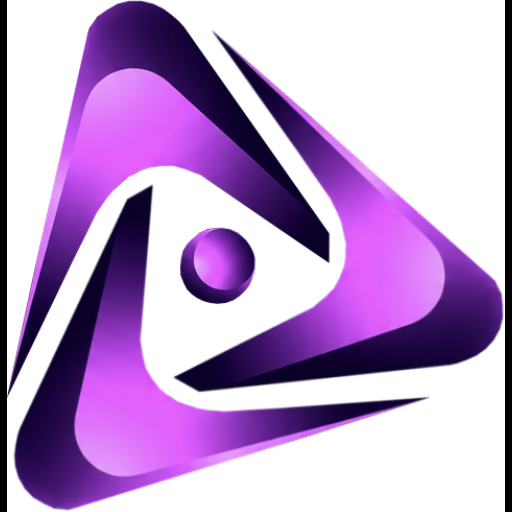
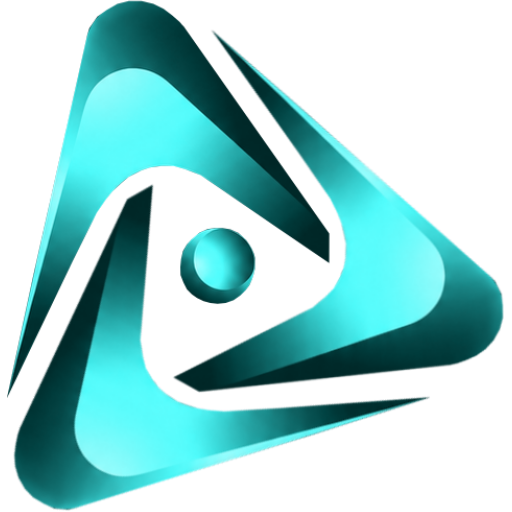
feat: adopt cyan Relay brand theme

diff --git a/src/app/globals.css b/src/app/globals.css
@@ -3,8 +3,8 @@
 @import "@copilotkit/react-ui/styles.css";
 
 :root {
-  --background: #f4f6f9;
-  --foreground: #182033;
+  --background: #f4f7fa;
+  --foreground: #142832;
 }
 
 @theme inline {
@@ -22,7 +22,7 @@ body {
 }
 
 ::selection {
-  background: rgba(81, 70, 155, 0.2);
+  background: rgba(0, 169, 206, 0.22);
 }
 
 button,
@@ -50,64 +50,64 @@ select:focus-visible {
 }
 
 .assistant-shell {
-  --app-bg: #f4f6f9;
-  --sidebar: rgba(238, 241, 246, 0.92);
+  --app-bg: #f4f7fa;
+  --sidebar: rgba(237, 242, 246, 0.92);
   --surface: rgba(255, 255, 255, 0.96);
-  --surface-soft: rgba(238, 241, 246, 0.94);
+  --surface-soft: rgba(237, 242, 246, 0.94);
   --surface-glass: rgba(255, 255, 255, 0.86);
-  --text: #182033;
-  --muted: #677085;
-  --line: rgba(24, 32, 51, 0.1);
-  --line-strong: rgba(24, 32, 51, 0.19);
-  --track: rgba(24, 32, 51, 0.1);
-  --accent: #51469b;
-  --accent-strong: #403681;
-  --accent-soft: rgba(81, 70, 155, 0.1);
-  --signal: #6b5fc7;
-  --signal-soft: rgba(107, 95, 199, 0.1);
-  --violet: #8176d6;
-  --violet-soft: rgba(129, 118, 214, 0.1);
-  --brand-ink: #180048;
-  --brand-orbit: #7830a8;
-  --brand-violet: #a848d8;
-  --brand-electric: #d860ff;
+  --text: #142832;
+  --muted: #647985;
+  --line: rgba(15, 52, 68, 0.1);
+  --line-strong: rgba(15, 52, 68, 0.2);
+  --track: rgba(15, 52, 68, 0.1);
+  --accent: #007f9d;
+  --accent-strong: #00677f;
+  --accent-soft: rgba(0, 169, 206, 0.1);
+  --signal: #00a9ce;
+  --signal-soft: rgba(0, 169, 206, 0.1);
+  --violet: #26c6e6;
+  --violet-soft: rgba(38, 198, 230, 0.1);
+  --brand-ink: #00383a;
+  --brand-core: #008fa5;
+  --brand-cyan: #20c8e8;
+  --brand-electric: #6be7ff;
   --success: #12815d;
   --success-soft: rgba(18, 129, 93, 0.12);
   --warning: #a15c00;
   --warning-soft: rgba(228, 152, 43, 0.16);
   --danger: #c2415a;
   --danger-soft: rgba(194, 65, 90, 0.12);
-  --shadow: 0 18px 45px rgba(18, 25, 40, 0.08);
-  --shadow-strong: 0 30px 70px rgba(18, 25, 40, 0.16);
+  --shadow: 0 18px 45px rgba(8, 32, 46, 0.08);
+  --shadow-strong: 0 30px 70px rgba(8, 32, 46, 0.16);
   background:
-    radial-gradient(circle at 82% -8%, rgba(81, 70, 155, 0.07), transparent 30rem),
+    radial-gradient(circle at 82% -8%, rgba(0, 169, 206, 0.07), transparent 30rem),
     linear-gradient(180deg, rgba(255, 255, 255, 0.66), transparent 34rem),
     var(--app-bg);
   isolation: isolate;
 }
 
 .assistant-shell[data-theme="dark"] {
-  --app-bg: #0b0f17;
-  --sidebar: #0f141e;
-  --surface: rgba(18, 24, 35, 0.96);
-  --surface-soft: rgba(24, 31, 44, 0.94);
-  --surface-glass: rgba(15, 20, 30, 0.86);
-  --text: #f3f5f8;
-  --muted: #9da7b8;
-  --line: rgba(190, 198, 214, 0.12);
-  --line-strong: rgba(190, 198, 214, 0.22);
-  --track: rgba(190, 198, 214, 0.13);
-  --accent: #9a91e5;
-  --accent-strong: #b0a9ef;
-  --accent-soft: rgba(154, 145, 229, 0.14);
-  --signal: #7e73cf;
-  --signal-soft: rgba(126, 115, 207, 0.14);
-  --violet: #b0a9ef;
-  --violet-soft: rgba(176, 169, 239, 0.13);
-  --brand-ink: #180048;
-  --brand-orbit: #7830a8;
-  --brand-violet: #a848d8;
-  --brand-electric: #d860ff;
+  --app-bg: #071118;
+  --sidebar: #0a161e;
+  --surface: rgba(14, 28, 37, 0.96);
+  --surface-soft: rgba(19, 38, 48, 0.94);
+  --surface-glass: rgba(10, 22, 30, 0.86);
+  --text: #f0f9fc;
+  --muted: #9fb3bd;
+  --line: rgba(175, 219, 234, 0.12);
+  --line-strong: rgba(175, 219, 234, 0.22);
+  --track: rgba(175, 219, 234, 0.13);
+  --accent: #35d0ef;
+  --accent-strong: #5adef5;
+  --accent-soft: rgba(53, 208, 239, 0.14);
+  --signal: #16b9d8;
+  --signal-soft: rgba(22, 185, 216, 0.14);
+  --violet: #72dff2;
+  --violet-soft: rgba(114, 223, 242, 0.13);
+  --brand-ink: #00383a;
+  --brand-core: #008fa5;
+  --brand-cyan: #20c8e8;
+  --brand-electric: #6be7ff;
   --success: #5dd6a6;
   --success-soft: rgba(93, 214, 166, 0.14);
   --warning: #f3b35a;
@@ -117,32 +117,32 @@ select:focus-visible {
   --shadow: 0 18px 45px rgba(0, 0, 0, 0.24);
   --shadow-strong: 0 30px 70px rgba(0, 0, 0, 0.34);
   background:
-    radial-gradient(circle at 82% -8%, rgba(129, 118, 214, 0.07), transparent 30rem),
+    radial-gradient(circle at 82% -8%, rgba(0, 169, 206, 0.07), transparent 30rem),
     linear-gradient(180deg, rgba(255, 255, 255, 0.025), transparent 34rem),
     var(--app-bg);
 }
 
 /*
  * Relay workspace theme
- * A quiet, high-information flight deck using graphite, slate, and restrained
- * indigo. The Relay mark carries the brighter end of the brand spectrum.
+ * A quiet, high-information flight deck using graphite, cool slate, and
+ * restrained cyan. The Relay mark carries the luminous end of the spectrum.
  * These semantic tokens preserve accessible contrast across product surfaces.
  */
 .relay-product-shell[data-theme="light"] {
-  --background: #f4f6f9;
-  --foreground: #182033;
+  --background: #f4f7fa;
+  --foreground: #142832;
   --surface: #ffffff;
   --surface-foreground: var(--foreground);
-  --surface-secondary: #eef1f5;
+  --surface-secondary: #edf2f6;
   --surface-secondary-foreground: var(--foreground);
-  --surface-tertiary: #e4e8ef;
+  --surface-tertiary: #e2e9ed;
   --surface-tertiary-foreground: var(--foreground);
   --overlay: #ffffff;
   --overlay-foreground: var(--foreground);
-  --muted: #677085;
-  --default: #e9edf3;
+  --muted: #647985;
+  --default: #e7edf1;
   --default-foreground: var(--foreground);
-  --accent: #51469b;
+  --accent: #007f9d;
   --accent-foreground: #ffffff;
   --success: oklch(0.64 0.145 165);
   --success-foreground: oklch(0.18 0.02 165);
@@ -150,8 +150,8 @@ select:focus-visible {
   --warning-foreground: oklch(0.25 0.045 75);
   --danger: oklch(0.62 0.2 25);
   --danger-foreground: oklch(0.99 0.003 250);
-  --border: #cbd2dd;
-  --separator: #e0e5ec;
+  --border: #c7d3da;
+  --separator: #dce5ea;
   --field-background: #ffffff;
   --field-foreground: var(--foreground);
   --field-border: var(--separator);
@@ -166,9 +166,9 @@ select:focus-visible {
   --line-strong: var(--border);
   --track: var(--default);
   --accent-strong: var(--accent-hover);
-  --signal: #6b5fc7;
+  --signal: #00a9ce;
   --signal-soft: color-mix(in oklab, var(--signal) 14%, transparent);
-  --violet: #8176d6;
+  --violet: #26c6e6;
   --violet-soft: color-mix(in oklab, var(--violet) 14%, transparent);
   --shadow: var(--surface-shadow);
   --shadow-strong: var(--overlay-shadow);
@@ -179,30 +179,30 @@ select:focus-visible {
 }
 
 .relay-product-shell[data-theme="dark"] {
-  --background: #0b0f17;
-  --foreground: #f3f5f8;
-  --surface: #121823;
+  --background: #071118;
+  --foreground: #f0f9fc;
+  --surface: #0e1c25;
   --surface-foreground: var(--foreground);
-  --surface-secondary: #181f2c;
+  --surface-secondary: #132630;
   --surface-secondary-foreground: var(--foreground);
-  --surface-tertiary: #202938;
+  --surface-tertiary: #1b3340;
   --surface-tertiary-foreground: var(--foreground);
-  --overlay: #161d29;
+  --overlay: #11232d;
   --overlay-foreground: var(--foreground);
-  --muted: #9da7b8;
-  --default: #202938;
+  --muted: #9fb3bd;
+  --default: #1b3340;
   --default-foreground: var(--foreground);
-  --accent: #9a91e5;
-  --accent-foreground: #10141f;
+  --accent: #35d0ef;
+  --accent-foreground: #062f3c;
   --success: oklch(0.72 0.13 165);
   --success-foreground: oklch(0.15 0.025 165);
   --warning: oklch(0.8 0.13 78);
   --warning-foreground: oklch(0.2 0.04 78);
   --danger: oklch(0.7 0.18 25);
   --danger-foreground: oklch(0.98 0.006 250);
-  --border: #3b4658;
-  --separator: #283243;
-  --field-background: #161d29;
+  --border: #385362;
+  --separator: #243d4a;
+  --field-background: #11232d;
   --field-foreground: var(--foreground);
   --field-border: var(--separator);
   --focus: var(--accent);
@@ -216,9 +216,9 @@ select:focus-visible {
   --line-strong: var(--border);
   --track: var(--default);
   --accent-strong: var(--accent-hover);
-  --signal: #7e73cf;
+  --signal: #16b9d8;
   --signal-soft: color-mix(in oklab, var(--signal) 16%, transparent);
-  --violet: #b0a9ef;
+  --violet: #72dff2;
   --violet-soft: color-mix(in oklab, var(--violet) 16%, transparent);
   --shadow: var(--surface-shadow);
   --shadow-strong: var(--overlay-shadow);
@@ -313,7 +313,7 @@ select:focus-visible {
 .command-hero {
   animation: fade-in 420ms ease-out both;
   background:
-    linear-gradient(135deg, #111827 0%, #222842 52%, #3f3b75 100%),
+    linear-gradient(135deg, #062f3c 0%, #075b72 54%, #0787a3 100%),
     repeating-linear-gradient(90deg, rgba(255, 255, 255, 0.08) 0 1px, transparent 1px 34px),
     repeating-linear-gradient(0deg, rgba(255, 255, 255, 0.06) 0 1px, transparent 1px 34px);
   isolation: isolate;
@@ -322,9 +322,9 @@ select:focus-visible {
 
 .command-hero::before {
   background:
-    linear-gradient(90deg, transparent, rgba(129, 118, 214, 0.14), transparent),
-    radial-gradient(circle at 22% 26%, rgba(154, 145, 229, 0.12), transparent 22%),
-    radial-gradient(circle at 80% 0%, rgba(107, 95, 199, 0.2), transparent 34%);
+    linear-gradient(90deg, transparent, rgba(107, 231, 255, 0.12), transparent),
+    radial-gradient(circle at 22% 26%, rgba(114, 223, 242, 0.1), transparent 22%),
+    radial-gradient(circle at 80% 0%, rgba(0, 169, 206, 0.2), transparent 34%);
   content: "";
   inset: 0;
   pointer-events: none;
@@ -356,7 +356,7 @@ select:focus-visible {
 
 .signal-map::after {
   animation: signal-scan 5s ease-in-out infinite;
-  background: linear-gradient(90deg, transparent, rgba(129, 118, 214, 0.22), transparent);
+  background: linear-gradient(90deg, transparent, rgba(107, 231, 255, 0.2), transparent);
   content: "";
   height: 1px;
   inset: 20% 0 auto;
@@ -376,7 +376,7 @@ select:focus-visible {
 }
 
 .signal-node[data-tone="blue"] {
-  --node-color: #7ba7d9;
+  --node-color: #72c9f2;
 }
 
 .signal-node[data-tone="green"] {
@@ -388,11 +388,11 @@ select:focus-visible {
 }
 
 .signal-node[data-tone="violet"] {
-  --node-color: #b0a9ef;
+  --node-color: #72dff2;
 }
 
 .signal-node[data-tone="cyan"] {
-  --node-color: #70b8c1;
+  --node-color: #26c6e6;
 }
 
 .signal-node-icon {
@@ -604,7 +604,7 @@ select:focus-visible {
 
 .profile-identity-band {
   background:
-    linear-gradient(135deg, rgba(17, 24, 39, 0.98), rgba(34, 40, 66, 0.96) 56%, rgba(63, 59, 117, 0.94)),
+    linear-gradient(135deg, rgba(6, 47, 60, 0.99), rgba(7, 91, 114, 0.97) 56%, rgba(7, 135, 163, 0.94)),
     repeating-linear-gradient(90deg, rgba(255, 255, 255, 0.1) 0 1px, transparent 1px 30px);
   position: relative;
 }
@@ -648,7 +648,7 @@ select:focus-visible {
 }
 
 .brand-symbol::before {
-  background: radial-gradient(circle, color-mix(in oklab, var(--brand-orbit) 12%, transparent), transparent 68%);
+  background: radial-gradient(circle, color-mix(in oklab, var(--brand-core) 12%, transparent), transparent 68%);
   content: "";
   inset: -10%;
   pointer-events: none;
@@ -921,11 +921,11 @@ select:focus-visible {
 
 .relay-product-shell .command-hero {
   background:
-    linear-gradient(115deg, #111827, #222842 56%, #3f3b75),
+    linear-gradient(115deg, #062f3c, #075b72 56%, #0787a3),
     repeating-linear-gradient(90deg, rgba(255, 255, 255, 0.05) 0 1px, transparent 1px 40px),
     repeating-linear-gradient(0deg, rgba(255, 255, 255, 0.04) 0 1px, transparent 1px 40px);
   border: 1px solid rgba(255, 255, 255, 0.08);
-  box-shadow: 0 24px 60px rgba(17, 24, 39, 0.18);
+  box-shadow: 0 24px 60px rgba(6, 47, 60, 0.18);
 }
 
 .relay-product-shell .command-hero::before {
@@ -945,7 +945,7 @@ select:focus-visible {
 
 .relay-product-shell .profile-identity-band {
   background:
-    linear-gradient(120deg, #111827, #222842 58%, #3f3b75),
+    linear-gradient(120deg, #062f3c, #075b72 58%, #0787a3),
     var(--surface);
 }
 
@@ -976,9 +976,9 @@ select:focus-visible {
 }
 
 .relay-product-shell .markdown-content pre {
-  background: #101521;
+  background: #071820;
   border-color: color-mix(in oklab, white 10%, transparent);
-  color: #f1f4f8;
+  color: #eefafa;
 }
 
 @media (max-width: 1023px) {

diff --git a/src/components/workspace/assistant-os.tsx b/src/components/workspace/assistant-os.tsx
@@ -9363,7 +9363,7 @@ function BrandSymbol() {
         aria-hidden="true"
         className="brand-symbol-image h-11 w-11 object-contain"
         height={44}
-        src="/brand/relay-mark.svg"
+        src="/brand/relay-mark-cyan.svg"
         unoptimized
         width={44}
       />
